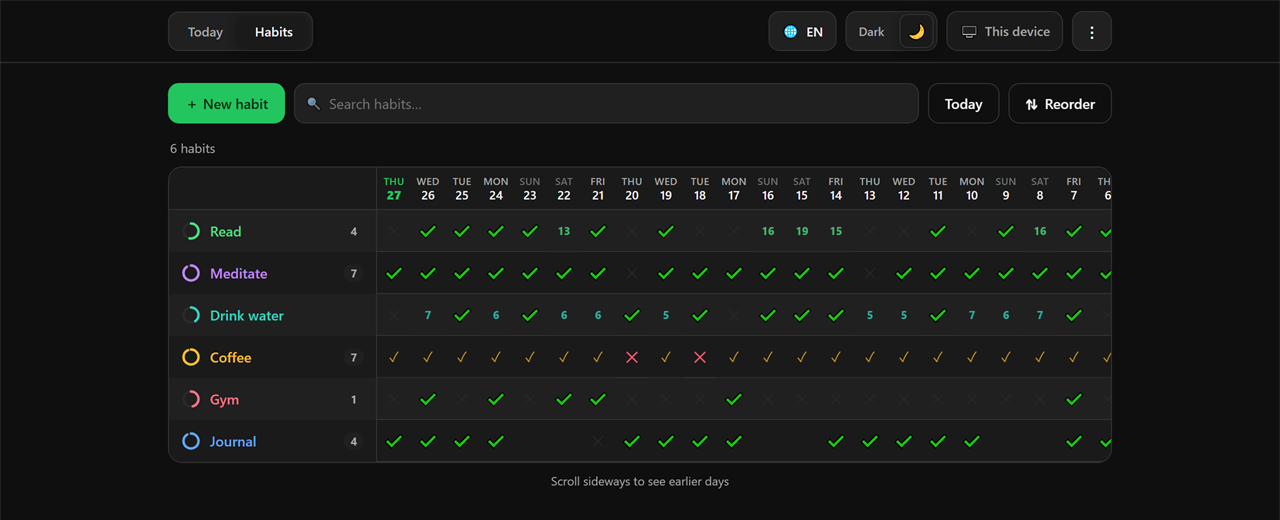
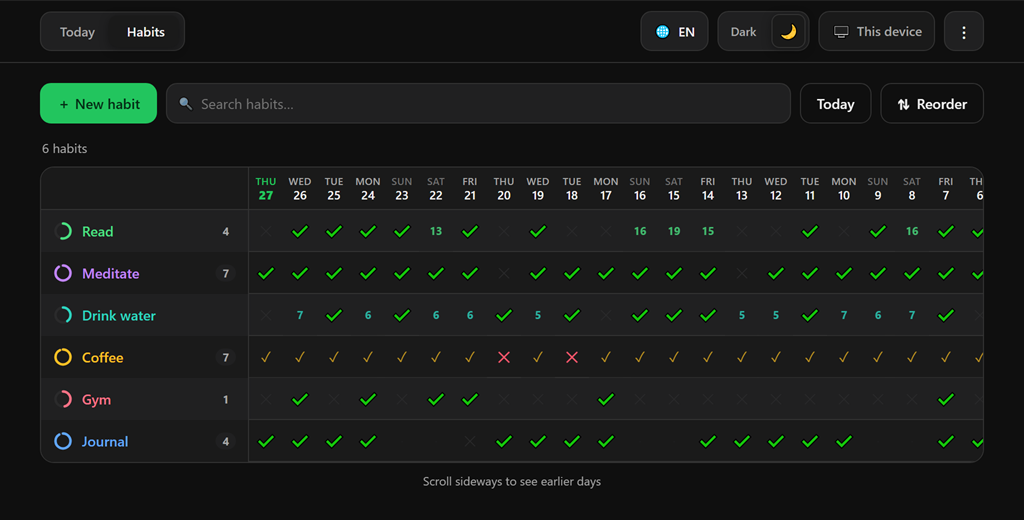
Crop the empty margins off the Streak web screenshot
Streak was captured at the browser width it was shot at, not the width its
content occupies. The habit grid and the controls above it use 946 of 1280
columns, so a quarter of the image was page background — and in a portfolio row
that already shares its width with a phone screenshot, a quarter of the space
was spent on nothing.

The edges are measured rather than guessed. A margin column is one that matches
the outermost column at every row, which finds the real edges without mistaking
the full-width header bar for content: the bar is constant along its own row, so
it matches too. That puts the content at x=167..1112, and the crop keeps a 39px
margin either side, close to the 41px Waterline kept. Every column removed is
identical to the image edge, so nothing of the app is lost.

  streak_web  1280x520 -> 1024x520   png 79K -> 71K   webp 36K -> 36K

The PNG is rebuilt rather than re-saved. GDI+ and .NET's deflate between them
produced a 1024px-wide file barely smaller than the 1280px-wide one it replaced,
so the scanlines are filtered by trying each strategy and keeping whichever
deflates smallest at zlib level 9 — on flat dark UI that turns out to be no
filtering at all, since long runs of identical bytes suit LZ77 better than
residuals do. The same pipeline rebuilds the uncropped original at 74369 bytes
against its own 80701, so the crop is not quietly paying for the re-encode.

The WebP is re-encoded from the cropped PNG at q90, the quality every web shot
[…]

diff --git a/portfolio/index.html b/portfolio/index.html
@@ -572,7 +572,7 @@
            sliver, so an app row caps its shots by height and lets each keep its own
            proportions. Bottom-aligning the panels lines the two captions up.
            The browser shot takes two thirds of the row: it is the wide one, and an
-           even split left a 1280px-wide grid too small to read. */
+           even split left a 1024px-wide grid too small to read. */
         .app-row {
             grid-template-columns: 2fr 1fr;
             align-items: end;
@@ -1370,11 +1370,11 @@
             <div class="media-row app-row">
                 <figure class="panel">
                     <picture>
-                        <source srcset="streak_web.webp" type="image/webp">
-                        <img src="streak_web.png"
+                        <source srcset="streak_web.webp?v=2" type="image/webp">
+                        <img src="streak_web.png?v=2"
                             alt="Streak web app — the habit grid, one row per habit and one column per day, with current streaks down the left"
                             data-ko-alt="Streak 웹 앱 — 습관마다 한 행, 날짜마다 한 열로 이루어진 격자와 왼쪽의 현재 연속 기록"
-                            loading="lazy" width="1280" height="520">
+                            loading="lazy" width="1024" height="520">
                     </picture>
                     <figcaption><span class="t-en" lang="en">Web</span><span class="t-ko" lang="ko">웹</span></figcaption>
                 </figure>
